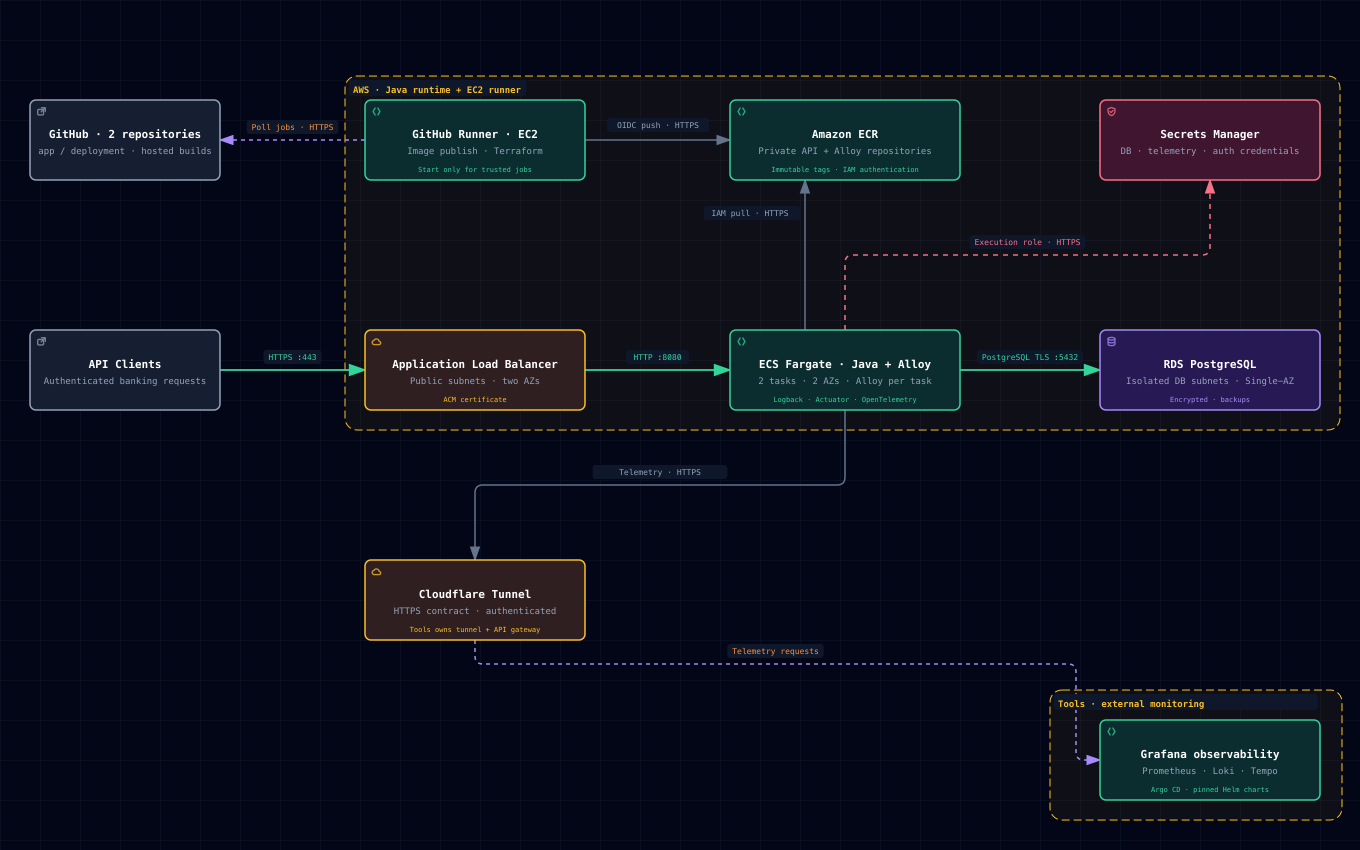
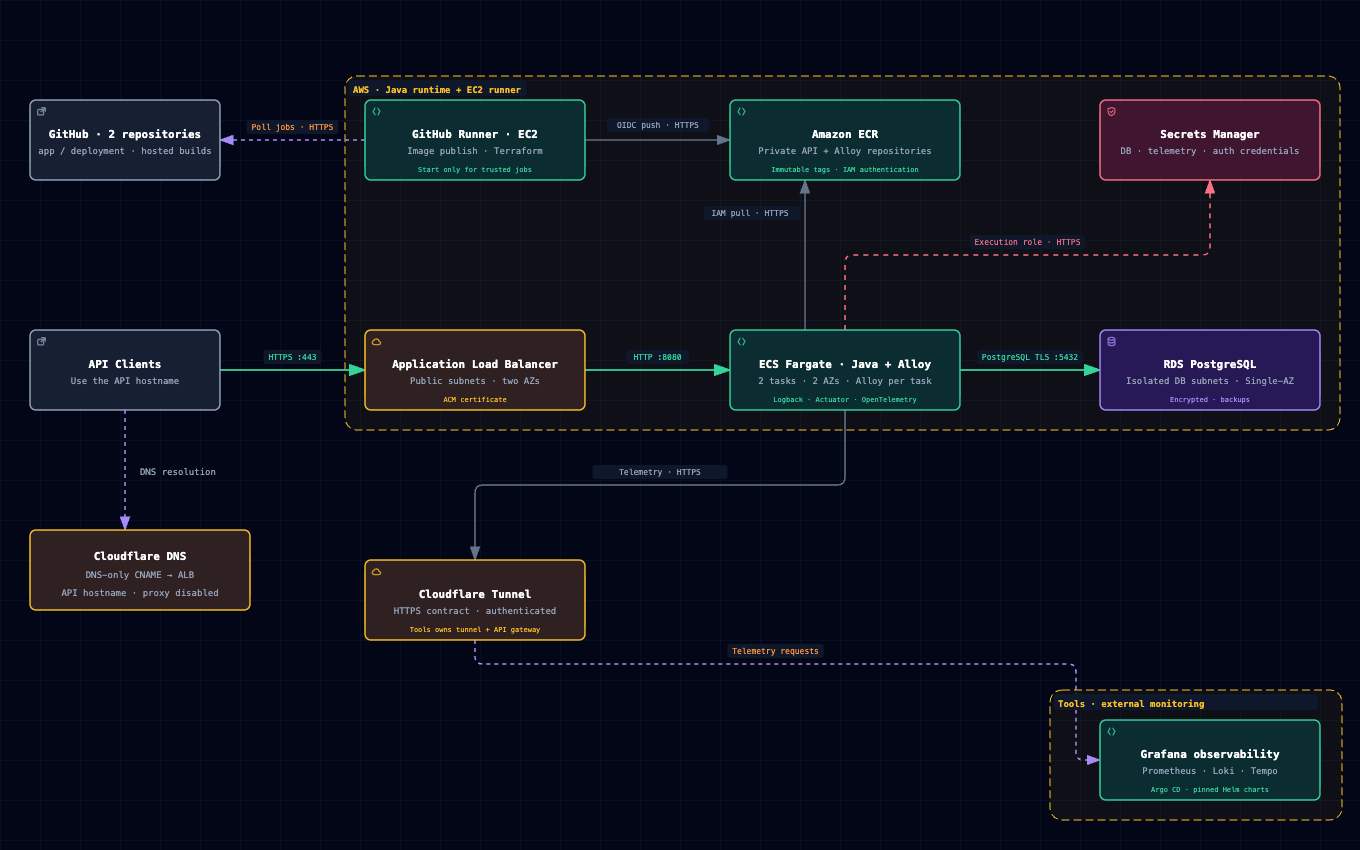
Update architecture documentation and clarify Cloudflare DNS integration
- Revised architecture overview in README.md to include Cloudflare DNS resolution details.
- Enhanced setup instructions in SETUP.md for API hostname configuration with Cloudflare CNAME.
- Updated architecture diagrams and descriptions in docs/architecture.md and related files to reflect changes in API access via Cloudflare.
- Adjusted labels and descriptions in banking-platform architecture JSON and SVG files for consistency and clarity.
- Committed updates to submodules app and deployment to ensure alignment with recent changes.

diff --git a/docs/architecture/banking-platform.html b/docs/architecture/banking-platform.html
@@ -5006,7 +5006,7 @@
          data-preset-badge-editorial-plate="ARCHIFY / PLATE 04">
       <svg viewBox="0 0 1360 850" role="img" lang="en" aria-labelledby="archify-diagram-title archify-diagram-description" data-preset="classic" data-quality-profile="showcase">
         <title id="archify-diagram-title">Banking · AWS + Tools</title>
-        <desc id="archify-diagram-description">Source architecture: hosted CI builds images; EC2 publishes to ECR and runs Terraform. Live deployment status requires verification.</desc>
+        <desc id="archify-diagram-description">Source architecture: Cloudflare DNS-only CNAME resolves the API hostname to the ALB; client HTTPS connects directly to the ALB. Hosted CI builds images; EC2 publishes to ECR and runs Terraform. Live deployment status requires verification.</desc>
         <!-- Definitions -->
         <defs>
           <marker id="arrowhead" markerWidth="10" markerHeight="7" refX="9" refY="3.5" orient="auto">
@@ -5036,6 +5036,8 @@
 
         <!-- Connection paths (before components for correct z-order) -->
         <path data-edge-from="runner" data-edge-to="github" data-edge-label="Poll jobs · HTTPS" data-edge-key="0" data-edge-id="runner-polls" data-composition-points="365,140;220,140" d="M 365 140 L 220 140" class="a-dashed" stroke-width="1.5" marker-end="url(#arrowhead-dashed)"/>
+        <path data-edge-from="users" data-edge-to="api-dns" data-edge-label="DNS resolution" data-edge-key="9" data-edge-id="api-dns-lookup" data-composition-points="125,410;125,530" d="M 125 410 L 125 530" class="a-dashed" stroke-width="1.5" marker-end="url(#arrowhead-dashed)"/>
+        <text x="140" y="475" class="t-muted" font-size="9">DNS resolution</text>
         <path data-edge-from="users" data-edge-to="alb" data-edge-label="HTTPS :443" data-edge-key="1" data-edge-id="client-request" data-composition-points="220,370;365,370" d="M 220 370 L 365 370" class="a-emphasis" stroke-width="1.8" marker-end="url(#arrowhead-emphasis)"/>
         <path data-edge-from="alb" data-edge-to="fargate" data-edge-label="HTTP :8080" data-edge-key="2" data-edge-id="alb-api" data-composition-points="585,370;730,370" d="M 585 370 L 730 370" class="a-emphasis" stroke-width="1.8" marker-end="url(#arrowhead-emphasis)"/>
         <path data-edge-from="fargate" data-edge-to="rds" data-edge-label="PostgreSQL TLS :5432" data-edge-key="3" data-edge-id="sql-tls" data-composition-points="960,370;1100,370" d="M 960 370 L 1100 370" class="a-emphasis" stroke-width="1.8" marker-end="url(#arrowhead-emphasis)"/>
@@ -5082,8 +5084,16 @@
         <text data-detail="fine" x="845" y="172" class="t-backend" font-size="7" text-anchor="middle">Immutable tags · IAM authentication</text>
         </g>
 
-        <g id="node-users" data-node-id="users" data-node-label="API Clients" tabindex="0" role="button" aria-label="Focus API Clients, Authenticated banking requests, Architecture component" aria-pressed="false" data-node-kind="external" data-node-sublabel="Authenticated banking requests" data-node-context="Architecture component">
-          <title>API Clients · Authenticated banking requests · Architecture component</title>
+        <g id="node-api-dns" data-node-id="api-dns" data-node-label="Cloudflare DNS" tabindex="0" role="button" aria-label="Focus Cloudflare DNS, DNS-only CNAME to ALB, API hostname, proxy disabled" aria-pressed="false" data-node-kind="cloud" data-node-sublabel="DNS-only CNAME → ALB" data-node-tag="API hostname · proxy disabled" data-node-context="External DNS">
+          <title>Cloudflare DNS · DNS-only CNAME → ALB · proxy disabled</title>
+          <rect x="30" y="530" width="220" height="80" rx="6" class="c-mask"/>
+          <rect x="30" y="530" width="220" height="80" rx="6" class="c-cloud" stroke-width="1.5"/>
+          <text data-node-label="" data-detail-anchor="" x="140" y="560" class="t-primary" font-size="11" font-weight="600" text-anchor="middle">Cloudflare DNS</text>
+          <text data-detail="context" x="140" y="578" class="t-muted" font-size="9" text-anchor="middle">DNS-only CNAME → ALB</text>
+          <text data-detail="context" x="140" y="596" class="t-muted" font-size="9" text-anchor="middle">API hostname · proxy disabled</text>
+        </g>
+        <g id="node-users" data-node-id="users" data-node-label="API Clients" tabindex="0" role="button" aria-label="Focus API Clients, Use the API hostname, Architecture component" aria-pressed="false" data-node-kind="external" data-node-sublabel="Use the API hostname" data-node-context="Architecture component">
+          <title>API Clients · Use the API hostname · Architecture component</title>
           <rect x="30" y="330" width="190" height="80" rx="6" class="c-mask"/>
           <rect x="30" y="330" width="190" height="80" rx="6" class="c-external" stroke-width="1.5"/>
           <g aria-hidden="true" data-semantic-sigil="external" class="semantic-sigil s-external" transform="translate(36 336) scale(0.6875)">
@@ -5091,7 +5101,7 @@
             <path d="M8 2.5h5.5V8M13.5 2.5 7.5 8.5"/>
           </g>
           <text data-node-label="" data-detail-anchor="" x="125" y="368" class="t-primary" font-size="11" font-weight="600" text-anchor="middle">API Clients</text>
-        <text data-detail="context" x="125" y="384" class="t-muted" font-size="9" text-anchor="middle">Authenticated banking requests</text>
+        <text data-detail="context" x="125" y="384" class="t-muted" font-size="9" text-anchor="middle">Use the API hostname</text>
         </g>
 
         <g id="node-alb" data-node-id="alb" data-node-label="Application Load Balancer" tabindex="0" role="button" aria-label="Focus Application Load Balancer, Public subnets · two AZs, AWS · Java runtime + EC2 runner" aria-pressed="false" data-node-kind="cloud" data-node-sublabel="Public subnets · two AZs" data-node-tag="ACM certificate" data-node-context="AWS · Java runtime + EC2 runner">

diff --git a/docs/architecture.md b/docs/architecture.md
@@ -2,6 +2,8 @@
 
 ## Overview
 
+Users access the API through its Cloudflare-managed hostname. Cloudflare serves a **DNS-only CNAME** pointing to the ALB DNS name; after DNS resolution, the client connects directly to the ALB over HTTPS. Cloudflare does not proxy API traffic or terminate its TLS. The monitoring Cloudflare Tunnel is a separate integration.
+
 AWS hosts the API, RDS, EC2 runner and private ECR repositories. Grafana/Prometheus/Loki/Tempo and homelab Alloy belong to the monitoring platform, with authenticated Cloudflare endpoints consumed by AWS clients and authorized users. AWS deployment owns the separate Fargate and runner Alloy configurations.
 
 **Scope:** This document describes the checked-in implementation. Live health, credentials and AWS resource state must be verified separately using the [verification guide](verification.md). Operators supply and validate ECR images and external telemetry, DNS and TLS services. Use synthetic data and review the [AWS account compatibility and budget](budget.md) before applying Terraform.
@@ -13,6 +15,7 @@ AWS hosts the API, RDS, EC2 runner and private ECR repositories. Grafana/Prometh
 | Component | Configured placement | Purpose and decision |
 |---|---|---|
 | GitHub | External hosted service | Separate repositories: `app` for Java/build/publish and `deployment` for Terraform/deployment. Example Terraform profiles use placeholder repository names; override them to match the actual repositories. |
+| Cloudflare DNS | External authoritative DNS, operator-managed | DNS-only API CNAME points to the ALB DNS name; proxy disabled (grey cloud). |
 | Application Load Balancer | Public subnet in each of two AZs | HTTPS entry point with ACM certificate; port 80 redirects to HTTPS if enabled. Target type `ip`. |
 | Banking API | Private application subnets, two AZs | Two Java Fargate tasks with AZ spreading, no public IPs; one Alloy sidecar per task for logs, metrics and traces. Start at 0.5 vCPU / 1 GiB each, including the JVM and Alloy in the resource budget. |
 | RDS PostgreSQL | Isolated DB subnet group spanning two AZs | Budget-first single-AZ `db.t4g.micro`, private endpoint, encrypted storage and backups. Multi-AZ primary/standby is a separately costed upgrade. |
@@ -20,7 +23,7 @@ AWS hosts the API, RDS, EC2 runner and private ECR repositories. Grafana/Prometh
 | Amazon ECR | AWS regional service | Terraform-managed API and Alloy repositories; immutable tags, encrypted storage and IAM-authenticated push/pull. |
 | NAT gateway | One public subnet for budget-first demo | Outbound GitHub, package, certificate and AWS API access; shared by both AZs. Two NAT gateways are an upgrade, not this baseline. |
 | Observability | External monitoring platform | Supplies authenticated Prometheus/Loki/Tempo ingestion and protected Grafana access. AWS owns its collectors and integration checks. |
-| Cloudflare | Public edge and an operator-managed connector | Endpoint, tunnel and access-policy ownership belongs to the monitoring platform. AWS clients use the verified service contract. |
+| Cloudflare Tunnel (monitoring) | Public edge and an operator-managed connector | Endpoint, tunnel and access-policy ownership belongs to the monitoring platform. AWS clients use the verified service contract. |
 | Secrets Manager / KMS | Regional AWS services | Separate database, telemetry and authentication secrets; scoped access and encryption. ECR uses IAM. |
 | S3 | Regional AWS service | Separate restricted buckets for Terraform state/release manifests and ALB access logs. RDS uses automated backups and final snapshots; backup-export storage is not provisioned. No public access. |
 | CloudWatch / SNS | Regional AWS services | AWS metrics/alarms and confirmed notifications; seven-day task console logs. Application console logging is WARN and above; it is not a complete backup of the INFO-level file logs sent to Loki. |
@@ -33,7 +36,7 @@ Fargate uses `awsvpc`, so ALB targets must be `ip`. [AWS load balancer configura
 
 | Source | Destination | Allowed connection |
 |---|---|---|
-| API clients | ALB SG | TCP 443; optional TCP 80 redirect |
+| API clients (after resolving the Cloudflare-managed API hostname) | ALB SG | Direct TCP 443; optional TCP 80 redirect |
 | ALB SG | API task SG | TCP 8080, HTTP target traffic and health checks |
 | API task SG | Banking RDS SG | TCP 5432 with certificate-verified PostgreSQL TLS |
 | Fargate / EC2 runner | Regional ECR API, Docker registry and image layers | HTTPS through the existing NAT; execution-role pull and OIDC build-role push permissions. |
@@ -46,7 +49,7 @@ Fargate uses `awsvpc`, so ALB targets must be `ip`. [AWS load balancer configura
 
 Use SG-to-SG rules within AWS. Deny direct runner access to banking RDS; use isolated ECS migration tasks. The external-service contract requires private database/raw monitoring administration and authenticated published endpoints. Cluster administration and network controls belong to the monitoring operator; the AWS runner receives no cluster-admin/Proxmox credentials.
 
-Client → ALB uses a publicly trusted certificate. ALB → task uses HTTP on port 8080 within private application subnets, restricted by security groups to traffic from the ALB. This hop is not encrypted. PostgreSQL clients use `sslmode=verify-full`, the current RDS CA bundle and enforced TLS. [ALB target groups](https://docs.aws.amazon.com/elasticloadbalancing/latest/application/load-balancer-target-groups.html), [RDS PostgreSQL TLS](https://docs.aws.amazon.com/AmazonRDS/latest/UserGuide/PostgreSQL.Concepts.General.SSL.html).
+Client → ALB uses a publicly trusted ACM certificate for the API hostname. DNS-only records do not restrict ALB ingress to Cloudflare IPs; the client is the HTTPS source. ALB → task uses HTTP on port 8080 within private application subnets, restricted by security groups to traffic from the ALB. This hop is not encrypted. PostgreSQL clients use `sslmode=verify-full`, the current RDS CA bundle and enforced TLS. [ALB target groups](https://docs.aws.amazon.com/elasticloadbalancing/latest/application/load-balancer-target-groups.html), [RDS PostgreSQL TLS](https://docs.aws.amazon.com/AmazonRDS/latest/UserGuide/PostgreSQL.Concepts.General.SSL.html).
 
 For the demonstration, use pre-provisioned test identities with JWT validation and per-account authorization; use the implemented RSA signing-key-derived public-key, issuer and audience validation. The issuer/test-token setup must be documented and must never permit a caller to choose an arbitrary account without authorization. Identity-provider expansion is outside the core demo.
 
@@ -112,7 +115,7 @@ Follow [the AWS budget](budget.md), stop the runner outside build windows and re
 
 | Evaluation area | Evidence to retain for each deployment |
 |---|---|
-| Infrastructure and application correctness | ALB URL, healthy tasks, persisted balance/deposit/withdrawal tests, concurrent-withdrawal test |
+| Infrastructure and application correctness | Cloudflare-managed API HTTPS URL, healthy tasks, persisted balance/deposit/withdrawal tests, concurrent-withdrawal test |
 | IaC and pipeline quality | Repeatable Terraform plans, successful trusted workflow, immutable image digest and rollback |
 | Security | SG/IAM review, TLS checks, secrets handling, unauthorized-account denial |
 | Monitoring, logging and tracing | Dashboard, redacted logs, a Java trace retrieved in Grafana, exercised alarm and notification |

diff --git a/SETUP.md b/SETUP.md
@@ -305,7 +305,7 @@ export API_URL="https://$API_HOST"
 
 Before the first CI run, check the exact GitHub OIDC subject prefixes for both repositories. The optional `github_app_subject_prefix` and `github_deployment_subject_prefix` fields in the private dev profile accept `repo:OWNER/REPO` or `repo:OWNER@ID/REPO@ID`; Terraform appends the main-ref or environment suffix. If your repositories use ID-bearing subjects, set those exact prefixes and review/apply an operator plan before CI. The setup menu does not discover them. Preserve these fields in `DEV_TFVARS_JSON`; see [OIDC configuration](deployment/README.md#prepare-aws).
 
-Read the SNS confirmation email and confirm the subscription. Point your API hostname to the `alb_dns_name` in `.private/setup/contract.json` using your DNS provider's CNAME or appropriate ALIAS record. Keep DNS traffic direct to the ALB for initial verification. An HTTP 503 is expected until the ECS service is deployed; certificate errors are not.
+Read the SNS confirmation email and confirm the subscription. Point your API hostname to the `alb_dns_name` in `.private/setup/contract.json` using a Cloudflare CNAME with proxy status **DNS only** (grey cloud). Users use this API hostname; Cloudflare resolves it to the ALB, and HTTPS connects directly to the ALB with its ACM certificate. Keep the API record DNS-only during normal operation as well as verification. An HTTP 503 is expected until the ECS service is deployed; certificate errors are not.
 
 If RDS creation fails with `FreeTierRestrictionError` about backup retention, the standard seven-day retention was rejected by your account plan. Set `"db_backup_retention_period": 1` in the private dev profile to retry with the minimum enabled retention. This reduces the automated recovery window to one day. The numeric account maximum is not provided in that error; AWS acceptance must be verified on apply. Preserve this setting in the GitHub `DEV_TFVARS_JSON` profile for subsequent deployments.
 
@@ -385,7 +385,7 @@ gh variable set STATE_BUCKET --repo "$GH_OWNER/$DEPLOY_REPO" --env dev --body "$
 gh variable set API_URL --repo "$GH_OWNER/$DEPLOY_REPO" --env dev --body "$API_URL"
 ```
 
-A GitHub App is needed only for the optional version-release PR/tag workflows, not basic application CI and AWS deployment. To enable it, follow the permission/key setup in [CI and Maven releases](app/docs/ci-cd.md#repository-setup), then configure `RELEASE_APP_ID` and the `RELEASE_APP_PRIVATE_KEY` secret as documented there.
+A GitHub App is needed only for the optional version-release PR/tag workflows, not basic application CI and AWS deployment. Follow [Create and install the release GitHub App](app/docs/ci-cd.md#create-and-install-the-release-github-app) for registration, permissions, private-key generation, repository installation, and configuring `RELEASE_APP_ID` and the `RELEASE_APP_PRIVATE_KEY` secret.
 
 ## 8. Publish the application and Alloy images
 

diff --git a/README.md b/README.md
@@ -56,7 +56,7 @@ Obtain current credentials privately from the environment owner and replace the 
 
 ## Architecture
 
-Clients → HTTPS load balancer → two private Java/Alloy Fargate tasks → private PostgreSQL RDS. A private EC2 runner publishes images and runs deployment jobs. Terraform manages the ECR repositories; monitoring services are configured separately.
+Clients resolve the API hostname through Cloudflare DNS (DNS-only CNAME → ALB), then connect directly over HTTPS: ALB → two private Java/Alloy Fargate tasks → private PostgreSQL RDS. A private EC2 runner publishes images and runs deployment jobs. Terraform manages the ECR repositories; monitoring services are configured separately.
 
 ![Architecture diagram](docs/architecture/banking-platform.png)
 
